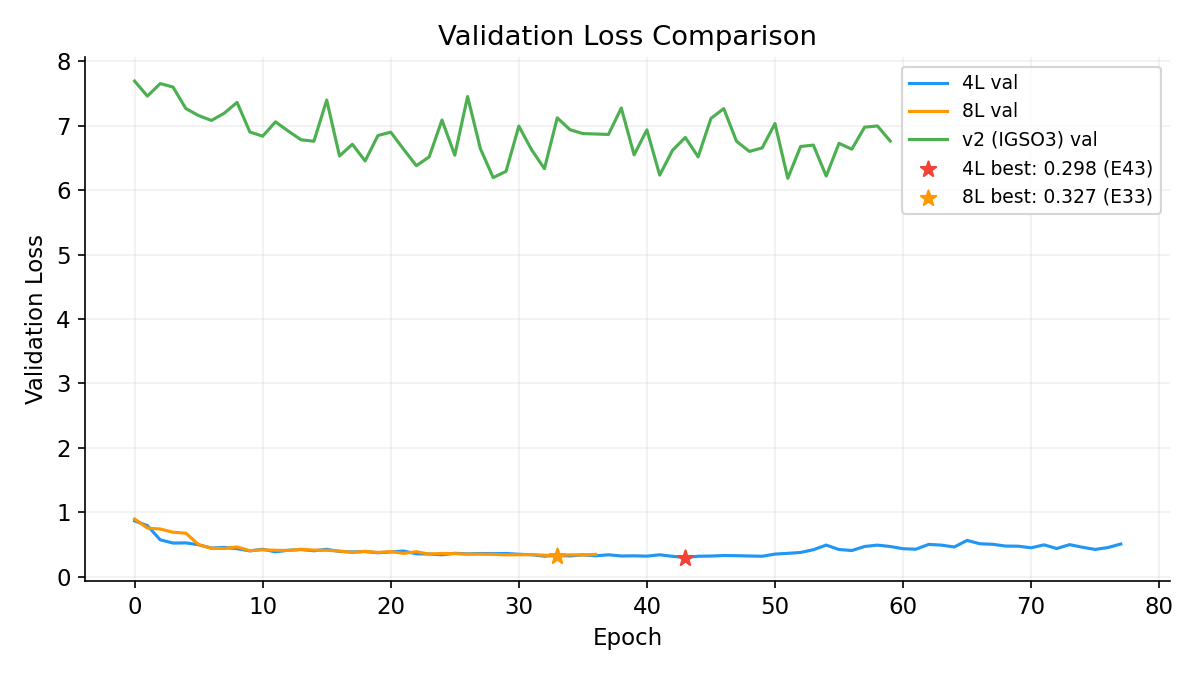
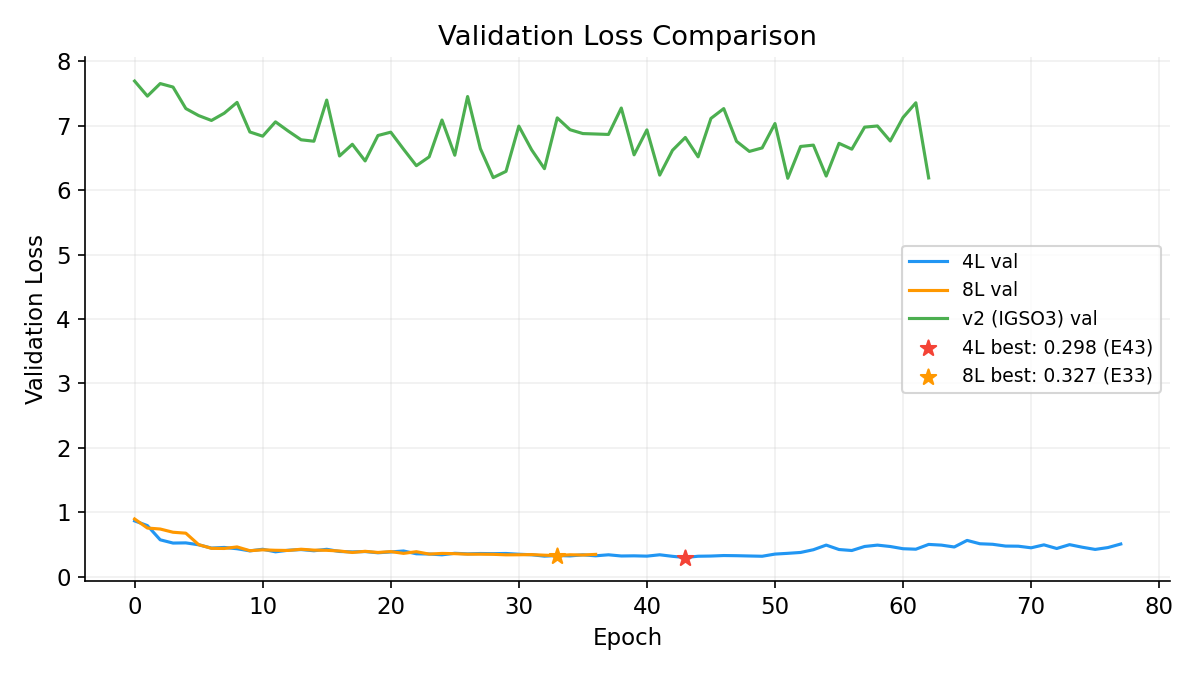
Update: v2 E62 ALL metrics new lows - RMSD=4.63 rot=46.2 val=6.19

diff --git a/minifold.html b/minifold.html
@@ -239,7 +239,7 @@
         <p style="margin:0; font-size:13px; color:var(--text-secondary)">~14.4M params &middot; Wider MLPs throughout<br>
         IGSO3 rotation noise + score matching loss<br>
         Proper SO(3) reverse SDE for sampling<br>
-        Status: E59, RMSD=4.68, rot_err=46.9, val best=6.18 (E51), 2xA40</p>
+        Status: E62, RMSD=4.63, rot_err=46.2, val=6.19 (tied best), L_r=6.27, 2xA40</p>
       </div>
     </div>
 
@@ -389,7 +389,8 @@
           <tr><td>45</td><td>0.286</td><td>6.34</td><td>47.2</td><td>4.76</td><td>7.11</td><td></td></tr>
           <tr><td>50</td><td>0.294</td><td>6.38</td><td>47.1</td><td>4.73</td><td>7.03</td><td></td></tr>
           <tr style="color:#4CAF50"><td>51</td><td>0.280</td><td>6.41</td><td>47.3</td><td>4.73</td><td>6.18</td><td>Best val</td></tr>
-          <tr><td>55</td><td>0.281</td><td>6.45</td><td>47.2</td><td>4.71</td><td>6.73</td><td>RMSD 4.71</td></tr>
+          <tr><td>55</td><td>0.281</td><td>6.45</td><td>47.2</td><td>4.71</td><td>6.73</td><td></td></tr>
+          <tr style="color:#4CAF50"><td>62</td><td>0.282</td><td>6.27</td><td>46.2</td><td>4.63</td><td>6.19</td><td>All metrics new lows</td></tr>
         </tbody>
       </table>
       </div>
